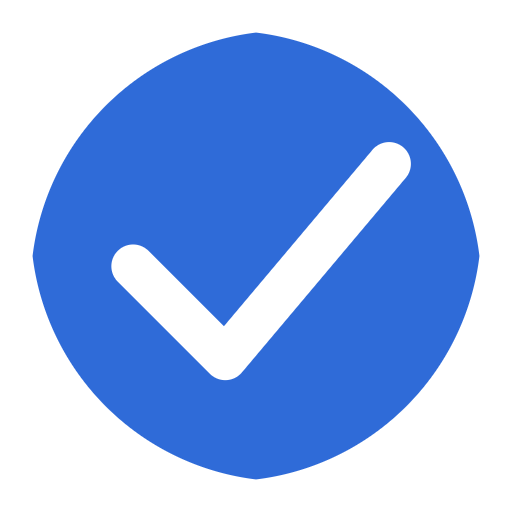
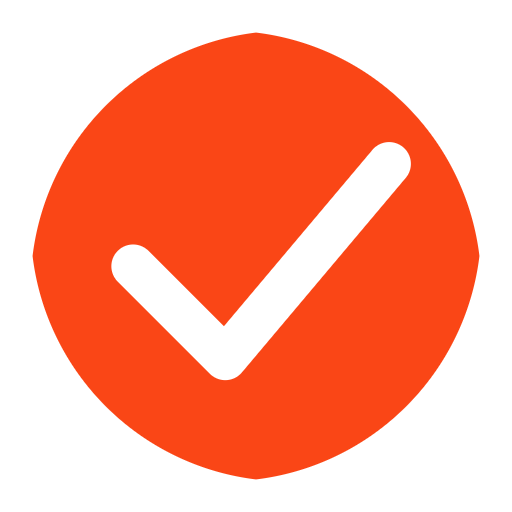
Adopt PMS 172 orange branding

diff --git a/src/app/globals.css b/src/app/globals.css
@@ -29,13 +29,15 @@
   --text-muted: #575e6f;
   --text-faint: #6a6860;
   --accent: #9b3f00;
+  --accent-fill: #fa4616;
+  --accent-fill-contrast: #241006;
   --accent-soft: #fff0e5;
-  --accent-contrast: #ffffff;
+  --accent-contrast: #241006;
   --selected: #f4dfd1;
 
   /* Each list carries its own hue, used for its icon and its page badge. */
   --inbox: #4a6fb5;
-  --today: #9b3f00;
+  --today: #fa4616;
   --upcoming: #bd431d;
   --anytime: #0c877a;
   --someday: #97790f;
@@ -70,11 +72,13 @@
   --d-text-muted: #a2a8b6;
   --d-text-faint: #7a808b;
   --d-accent: #ff9c62;
+  --d-accent-fill: #fa4616;
+  --d-accent-fill-contrast: #241006;
   --d-accent-soft: #3b2217;
   --d-accent-contrast: #241006;
   --d-selected: #4a2b1c;
   --d-inbox: #86a9e6;
-  --d-today: #ffad70;
+  --d-today: #fa4616;
   --d-upcoming: #f5906a;
   --d-anytime: #4ec9b8;
   --d-someday: #d6b455;
@@ -106,6 +110,8 @@
   --text-muted: #525d52;
   --text-faint: #666b61;
   --accent: #47664a;
+  --accent-fill: #47664a;
+  --accent-fill-contrast: #ffffff;
   --accent-soft: #e4ecdf;
   --accent-contrast: #ffffff;
   --selected: #dce8d8;
@@ -129,6 +135,8 @@
   --d-text-muted: #adb5a5;
   --d-text-faint: #899083;
   --d-accent: #a7caa6;
+  --d-accent-fill: #a7caa6;
+  --d-accent-fill-contrast: #142016;
   --d-accent-soft: #263525;
   --d-accent-contrast: #142016;
   --d-selected: #30422e;
@@ -145,6 +153,8 @@
 /* Clear, lively accents using the original calm neutral surfaces. */
 :root[data-palette='bright'] {
   --accent: #2159d6;
+  --accent-fill: #2159d6;
+  --accent-fill-contrast: #ffffff;
   --accent-soft: #e6eefd;
   --accent-contrast: #ffffff;
   --selected: #dbe7fd;
@@ -156,6 +166,8 @@
   --logbook: #1d874a;
 
   --d-accent: #7aa2ff;
+  --d-accent-fill: #7aa2ff;
+  --d-accent-fill-contrast: #0b0f1c;
   --d-accent-soft: #1b2540;
   --d-accent-contrast: #0b0f1c;
   --d-selected: #23304d;
@@ -181,6 +193,8 @@
     --text-muted: var(--d-text-muted);
     --text-faint: var(--d-text-faint);
     --accent: var(--d-accent);
+    --accent-fill: var(--d-accent-fill);
+    --accent-fill-contrast: var(--d-accent-fill-contrast);
     --accent-soft: var(--d-accent-soft);
     --accent-contrast: var(--d-accent-contrast);
     --selected: var(--d-selected);
@@ -218,6 +232,8 @@
   --text-muted: var(--d-text-muted);
   --text-faint: var(--d-text-faint);
   --accent: var(--d-accent);
+  --accent-fill: var(--d-accent-fill);
+  --accent-fill-contrast: var(--d-accent-fill-contrast);
   --accent-soft: var(--d-accent-soft);
   --accent-contrast: var(--d-accent-contrast);
   --selected: var(--d-selected);
@@ -254,6 +270,8 @@
   --color-muted: var(--text-muted);
   --color-faint: var(--text-faint);
   --color-accent: var(--accent);
+  --color-accent-fill: var(--accent-fill);
+  --color-accent-fill-contrast: var(--accent-fill-contrast);
   --color-accent-soft: var(--accent-soft);
   --color-accent-contrast: var(--accent-contrast);
   --color-inbox: var(--inbox);

diff --git a/src/ui/primitives.tsx b/src/ui/primitives.tsx
@@ -216,7 +216,7 @@ export function Button({
     'inline-flex items-center justify-center gap-1.5 rounded-md font-medium transition-colors disabled:opacity-45 disabled:pointer-events-none';
   const sizes = size === 'sm' ? 'h-8 px-2.5 text-[13px]' : 'h-10 px-3.5 text-[14px]';
   const variants = {
-    primary: 'bg-accent text-accent-contrast hover:opacity-90',
+    primary: 'bg-accent-fill text-accent-fill-contrast hover:opacity-90',
     secondary: 'border border-line bg-surface hover:bg-surface-2',
     ghost: 'text-muted hover:bg-surface-2 hover:text-ink',
     danger: 'border border-line text-danger hover:bg-danger-soft',
@@ -273,12 +273,12 @@ export function StatusControl({
         className="flex h-6 w-6 items-center justify-center rounded-[5px] border transition-colors"
         style={{
           borderColor: status === 'open' ? 'var(--control-border)' : 'transparent',
-          background: status === 'completed' ? 'var(--accent)' : status === 'canceled' ? 'var(--control-border)' : 'transparent',
+          background: status === 'completed' ? 'var(--accent-fill)' : status === 'canceled' ? 'var(--control-border)' : 'transparent',
           borderRadius: tone === 'project' ? '50%' : undefined,
         }}
       >
         {status === 'completed' ? (
-          <svg width="13" height="13" viewBox="0 0 24 24" fill="none" stroke="var(--accent-contrast)" strokeWidth="3.4" strokeLinecap="round" strokeLinejoin="round" aria-hidden="true">
+          <svg width="13" height="13" viewBox="0 0 24 24" fill="none" stroke="var(--accent-fill-contrast)" strokeWidth="3.4" strokeLinecap="round" strokeLinejoin="round" aria-hidden="true">
             <path d="m4 12.5 5.2 5.2L20 6.6" />
           </svg>
         ) : status === 'canceled' ? (

diff --git a/src/ui/AppShell.tsx b/src/ui/AppShell.tsx
@@ -242,7 +242,7 @@ export function AppShell() {
               aria-label={`Add a task to ${doc.title}`}
               title={`Add a task to ${doc.title}`}
               onClick={addHere}
-              className="flex h-9 w-9 shrink-0 items-center justify-center rounded-lg bg-accent text-accent-contrast shadow-[var(--shadow-sm)] transition-transform hover:scale-105 active:scale-95"
+              className="flex h-9 w-9 shrink-0 items-center justify-center rounded-lg bg-accent-fill text-accent-fill-contrast shadow-[var(--shadow-sm)] transition-transform hover:scale-105 active:scale-95"
             >
               <PlusIcon size={17} />
             </button>
@@ -298,7 +298,7 @@ export function AppShell() {
           type="button"
           aria-label="Quick capture"
           onClick={() => setOverlay('capture')}
-          className="fixed bottom-[max(16px,env(safe-area-inset-bottom))] right-4 z-30 flex h-14 w-14 items-center justify-center rounded-full bg-accent text-accent-contrast shadow-[var(--shadow)]"
+          className="fixed bottom-[max(16px,env(safe-area-inset-bottom))] right-4 z-30 flex h-14 w-14 items-center justify-center rounded-full bg-accent-fill text-accent-fill-contrast shadow-[var(--shadow)]"
         >
           <PlusIcon size={22} />
         </button>

diff --git a/src/ui/ListView.tsx b/src/ui/ListView.tsx
@@ -223,7 +223,7 @@ function TaskRow({
       }`}
     >
       {selected ? (
-        <span aria-hidden="true" className="absolute inset-y-1.5 left-0 w-[3px] rounded-r-full bg-accent" />
+        <span aria-hidden="true" className="absolute inset-y-1.5 left-0 w-[3px] rounded-r-full bg-accent-fill" />
       ) : null}
       <StatusControl
         status={task.status}
@@ -278,7 +278,7 @@ function TaskRow({
           <span
             aria-hidden="true"
             className={`flex h-6 w-6 items-center justify-center rounded-full border text-[14px] font-bold ${
-              selected ? 'border-accent bg-accent text-accent-contrast' : 'border-line-strong bg-surface'
+              selected ? 'border-accent bg-accent-fill text-accent-fill-contrast' : 'border-line-strong bg-surface'
             }`}
           >
             {selected ? '✓' : ''}

diff --git a/src/ui/TaskEditor.tsx b/src/ui/TaskEditor.tsx
@@ -158,7 +158,7 @@ export function TaskEditor({ task, onClose }: { task: Task; onClose: () => void 
                 aria-label={item.text || 'Checklist row'}
                 onClick={() => actions.updateChecklistItem(item.id, { checked: !item.checked })}
                 className={`flex h-[18px] w-[18px] shrink-0 items-center justify-center rounded-[4px] border text-[10px] ${
-                  item.checked ? 'border-accent bg-accent text-accent-contrast' : 'border-control'
+                  item.checked ? 'border-accent bg-accent-fill text-accent-fill-contrast' : 'border-control'
                 }`}
               >
                 {item.checked ? '✓' : ''}

diff --git a/src/ui/Sidebar.tsx b/src/ui/Sidebar.tsx
@@ -157,7 +157,7 @@ export function Sidebar({
       <div className="flex items-center gap-3 px-4 pb-4 pt-5">
         <span
           aria-hidden="true"
-          className="flex h-10 w-10 items-center justify-center rounded-[12px] bg-accent text-accent-contrast shadow-[var(--shadow-sm)]"
+          className="flex h-10 w-10 items-center justify-center rounded-[12px] bg-accent-fill text-accent-fill-contrast shadow-[var(--shadow-sm)]"
         >
           <svg width="20" height="20" viewBox="0 0 24 24" fill="none" stroke="currentColor" strokeWidth="3.2" strokeLinecap="round" strokeLinejoin="round">
             <path d="m4 12.5 5.2 5.2L20 6.6" />

diff --git a/src/ui/RepeatEditor.tsx b/src/ui/RepeatEditor.tsx
@@ -151,7 +151,7 @@ export function RepeatEditor({ anchor, onClose, task }: { anchor: HTMLElement | 
                       setRule({ ...rule, weekdays: [...current].sort((a, b) => a - b) });
                     }}
                     className={`h-9 w-9 rounded-md border text-[13px] ${
-                      active ? 'border-accent bg-accent text-accent-contrast' : 'border-line hover:bg-surface-2'
+                      active ? 'border-accent bg-accent-fill text-accent-fill-contrast' : 'border-line hover:bg-surface-2'
                     }`}
                   >
                     {name}

diff --git a/src/ui/DatePopover.tsx b/src/ui/DatePopover.tsx
@@ -84,7 +84,7 @@ function MiniCalendar({
               aria-pressed={date === selected}
               className={`flex h-8 items-center justify-center rounded-md text-[13px] transition-colors ${
                 date === selected
-                  ? 'bg-accent font-semibold text-accent-contrast'
+                  ? 'bg-accent-fill font-semibold text-accent-fill-contrast'
                   : date === today
                     ? 'font-semibold text-accent hover:bg-accent-soft'
                     : 'hover:bg-surface-2'

diff --git a/src/ui/Pickers.tsx b/src/ui/Pickers.tsx
@@ -235,7 +235,7 @@ export function TagPicker({
                 <span
                   aria-hidden="true"
                   className={`flex h-4 w-4 items-center justify-center rounded-[4px] border text-[10px] ${
-                    isDirect ? 'border-accent bg-accent text-accent-contrast' : 'border-control'
+                    isDirect ? 'border-accent bg-accent-fill text-accent-fill-contrast' : 'border-control'
                   }`}
                 >
                   {isDirect ? '✓' : ''}

diff --git a/public/sw.js b/public/sw.js
@@ -5,7 +5,7 @@
  * without a network. API routes are never cached — stale sync or auth responses would be
  * worse than an honest failure the app already knows how to handle.
  */
-const VERSION = 'clearing-v1';
+const VERSION = 'gettodo-v0.5.3';
 const SHELL = `${VERSION}-shell`;
 const ASSETS = `${VERSION}-assets`;
 
